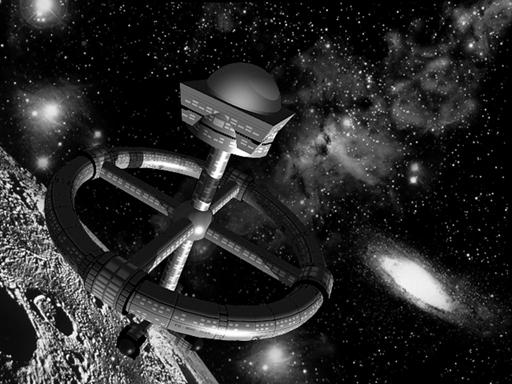
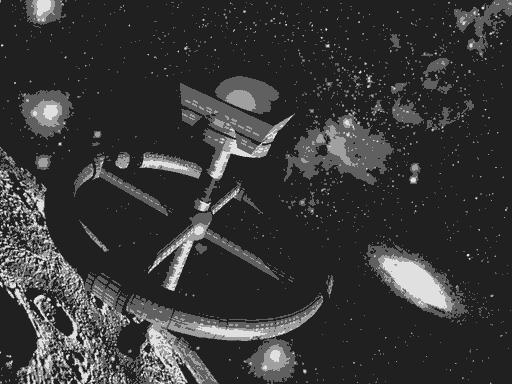
implemented quantization

diff --git a/ImageProcessor.py b/ImageProcessor.py
@@ -1,13 +1,3 @@
-'''
-from tkinter import * 
-#from PIL import Image, ImageTk, ImageDraw, ImageOps, ImageEnhance
-from PIL import Image
-
-imagePath = "./test_images/Gramado_22k.jpg"
-image = Image.open(imagePath)
-image.show()
-print(image)
-'''
 from tkinter import * 
 from PIL import Image, ImageTk, ImageDraw, ImageOps, ImageEnhance
 
@@ -93,77 +83,54 @@ class ImageProcessor(Tk):
         self.updateImage(self.workingImage)
 
     def quantization(self):
-        print("")
+        shadeLimit = 4
+        self.greyImage()
+
+        copiedImage = self.workingImage.copy()
+        originalPixelMap = copiedImage.load()
+        workingPixelMap = self.workingImage.load()
+
+        maxColor = -1
+        minColor = 99999999
+
+        for i in range(0, self.workingImage.size[0]):
+            for j in range(0, self.workingImage.size[1]):
+                pixel = originalPixelMap[i,j]
+
+                if pixel[0] > maxColor:
+                    maxColor = pixel[0]
+
+                if pixel[0] < minColor:
+                    minColor = pixel[0]
+
+        tam_int = maxColor - minColor + 1
+
+        if shadeLimit < tam_int:
+            binSize = tam_int / shadeLimit
+            binBoundaries = []
+            binColorList = []
+
+            for i in range(0, shadeLimit):
+                binBoundaries.append(binSize * i)
+                newColor = int((binSize * i + binSize * (i + 1)) / 2)
+                binColorList.append(newColor)
+
+
+        for i in range(0, self.workingImage.size[0]):
+            for j in range(0, self.workingImage.size[1]):
+                pixel = workingPixelMap[i,j]
+
+                for colorIndex in range(0, len(binBoundaries)):
+                    if (colorIndex == len(binBoundaries) - 1) or (pixel[0] >= binBoundaries[colorIndex] and pixel[0] < binBoundaries[colorIndex + 1]):
+                        currentColor = binColorList[colorIndex]
+                        workingPixelMap[i, j] = (currentColor, currentColor, currentColor, 0)
+                        break
+
+        self.updateImage(self.workingImage)
 
     def updateImage(self, newImage):
         self.workingTkImage = ImageTk.PhotoImage(newImage)
         self.canvas.itemconfigure(self.workingCanvasItem, image = self.workingTkImage)
-
-class ImageButcher(Tk):
-    def __init__(self):
-        Tk.__init__(self)
-
-        #create ui
-        f = Frame(self, bd=2)
-
-        self.colour = StringVar(self)
-        self.colourMenu = OptionMenu(f, self.colour,
-                                     *('red','green','blue','white'))
-        self.colourMenu.config(width=5)
-        self.colour.set('red')
-        self.colourMenu.pack(side='left')
-
-        self.rectangleButton = Button(f, text='Rectangle',
-                                    command=self.draw_rectangle)
-        self.rectangleButton.pack(side='left')
-
-        self.brightenButton = Button(f, text='Brighten',
-                                    command=self.on_brighten)
-        self.brightenButton.pack(side='left')
-
-        self.mirrorButton = Button(f, text='Mirror',
-                                    command=self.on_mirror)
-        self.mirrorButton.pack(side='left')
-        f.pack(fill='x')
-
-        self.c = Canvas(self, bd=0, highlightthickness=0,
-                        width=100, height=100)
-        self.c.pack(fill='both', expand=1)
-
-        #load image
-        im = Image.open('./test_images/Gramado_22k.jpg')
-        im.thumbnail((512,512))
-
-        self.tkphoto = ImageTk.PhotoImage(im)
-        self.canvasItem = self.c.create_image(0,0,anchor='nw',image=self.tkphoto)
-        self.c.config(width=im.size[0], height=im.size[1])
-
-        self.img = im
-        self.temp = im.copy() # 'working' image
-
-    def display_image(self, aImage):
-        self.tkphoto = pic = ImageTk.PhotoImage(aImage)
-        self.c.itemconfigure(self.canvasItem, image=pic)
-
-    def on_mirror(self):
-        im = ImageOps.mirror(self.temp)
-        self.display_image(im)
-        self.temp = im
-
-    def on_brighten(self):
-        brightener = ImageEnhance.Brightness(self.temp)
-        self.temp = brightener.enhance(1.1) # +10%
-        self.display_image(self.temp)
-
-    def draw_rectangle(self):
-        bbox = 9, 9, self.temp.size[0] - 11, self.temp.size[1] - 11        
-        draw = ImageDraw.Draw(self.temp)
-        draw.rectangle(bbox, outline=self.colour.get())
-        self.display_image(self.temp)
-
-
-#app = ImageButcher()
-#app.mainloop()
 
 imageProcessor = ImageProcessor()
 imageProcessor.mainloop()
